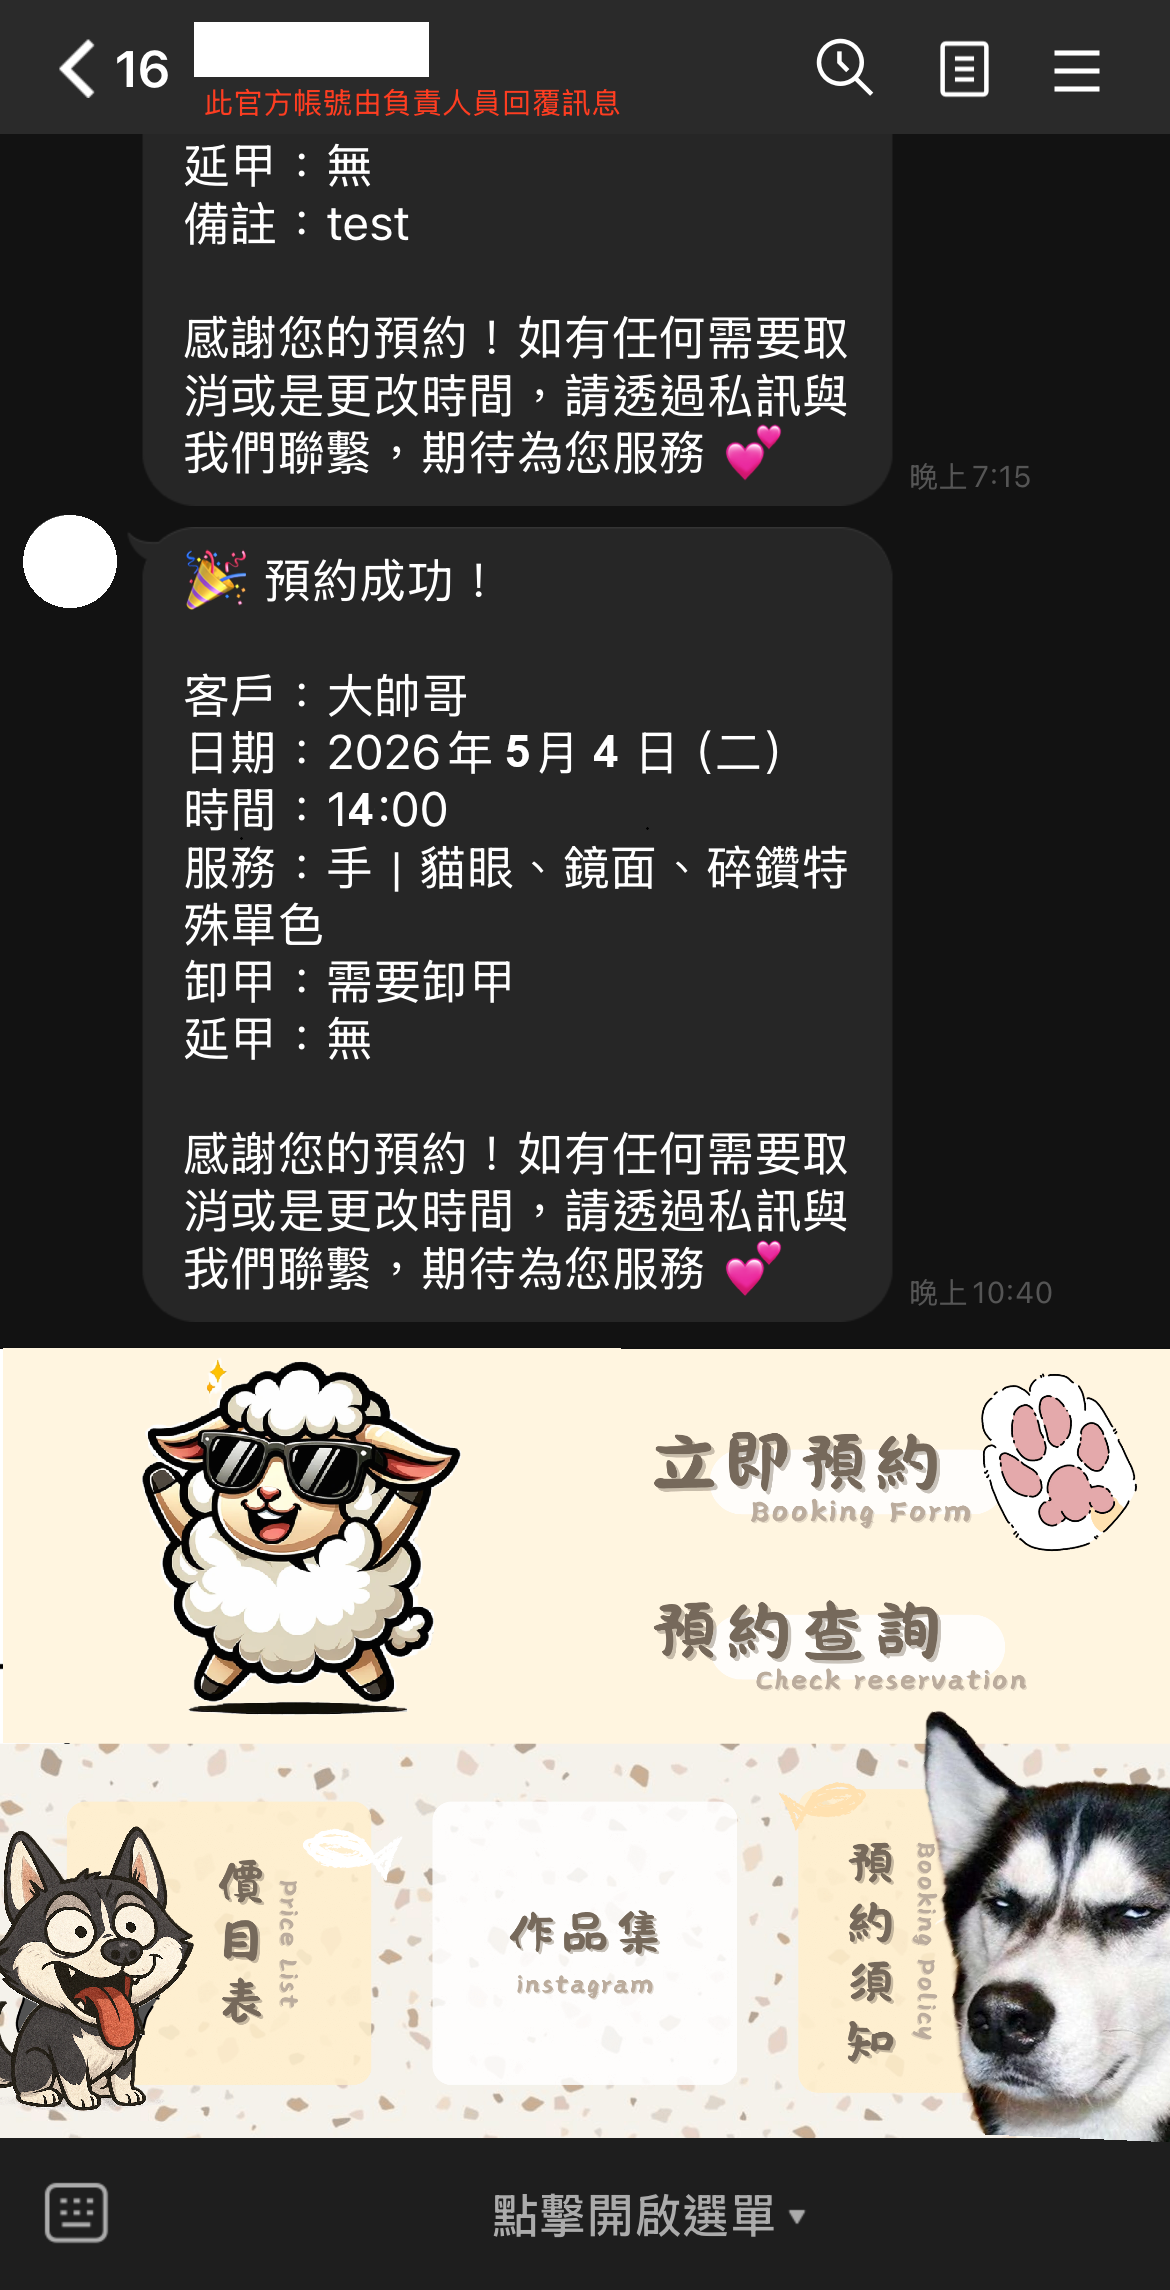
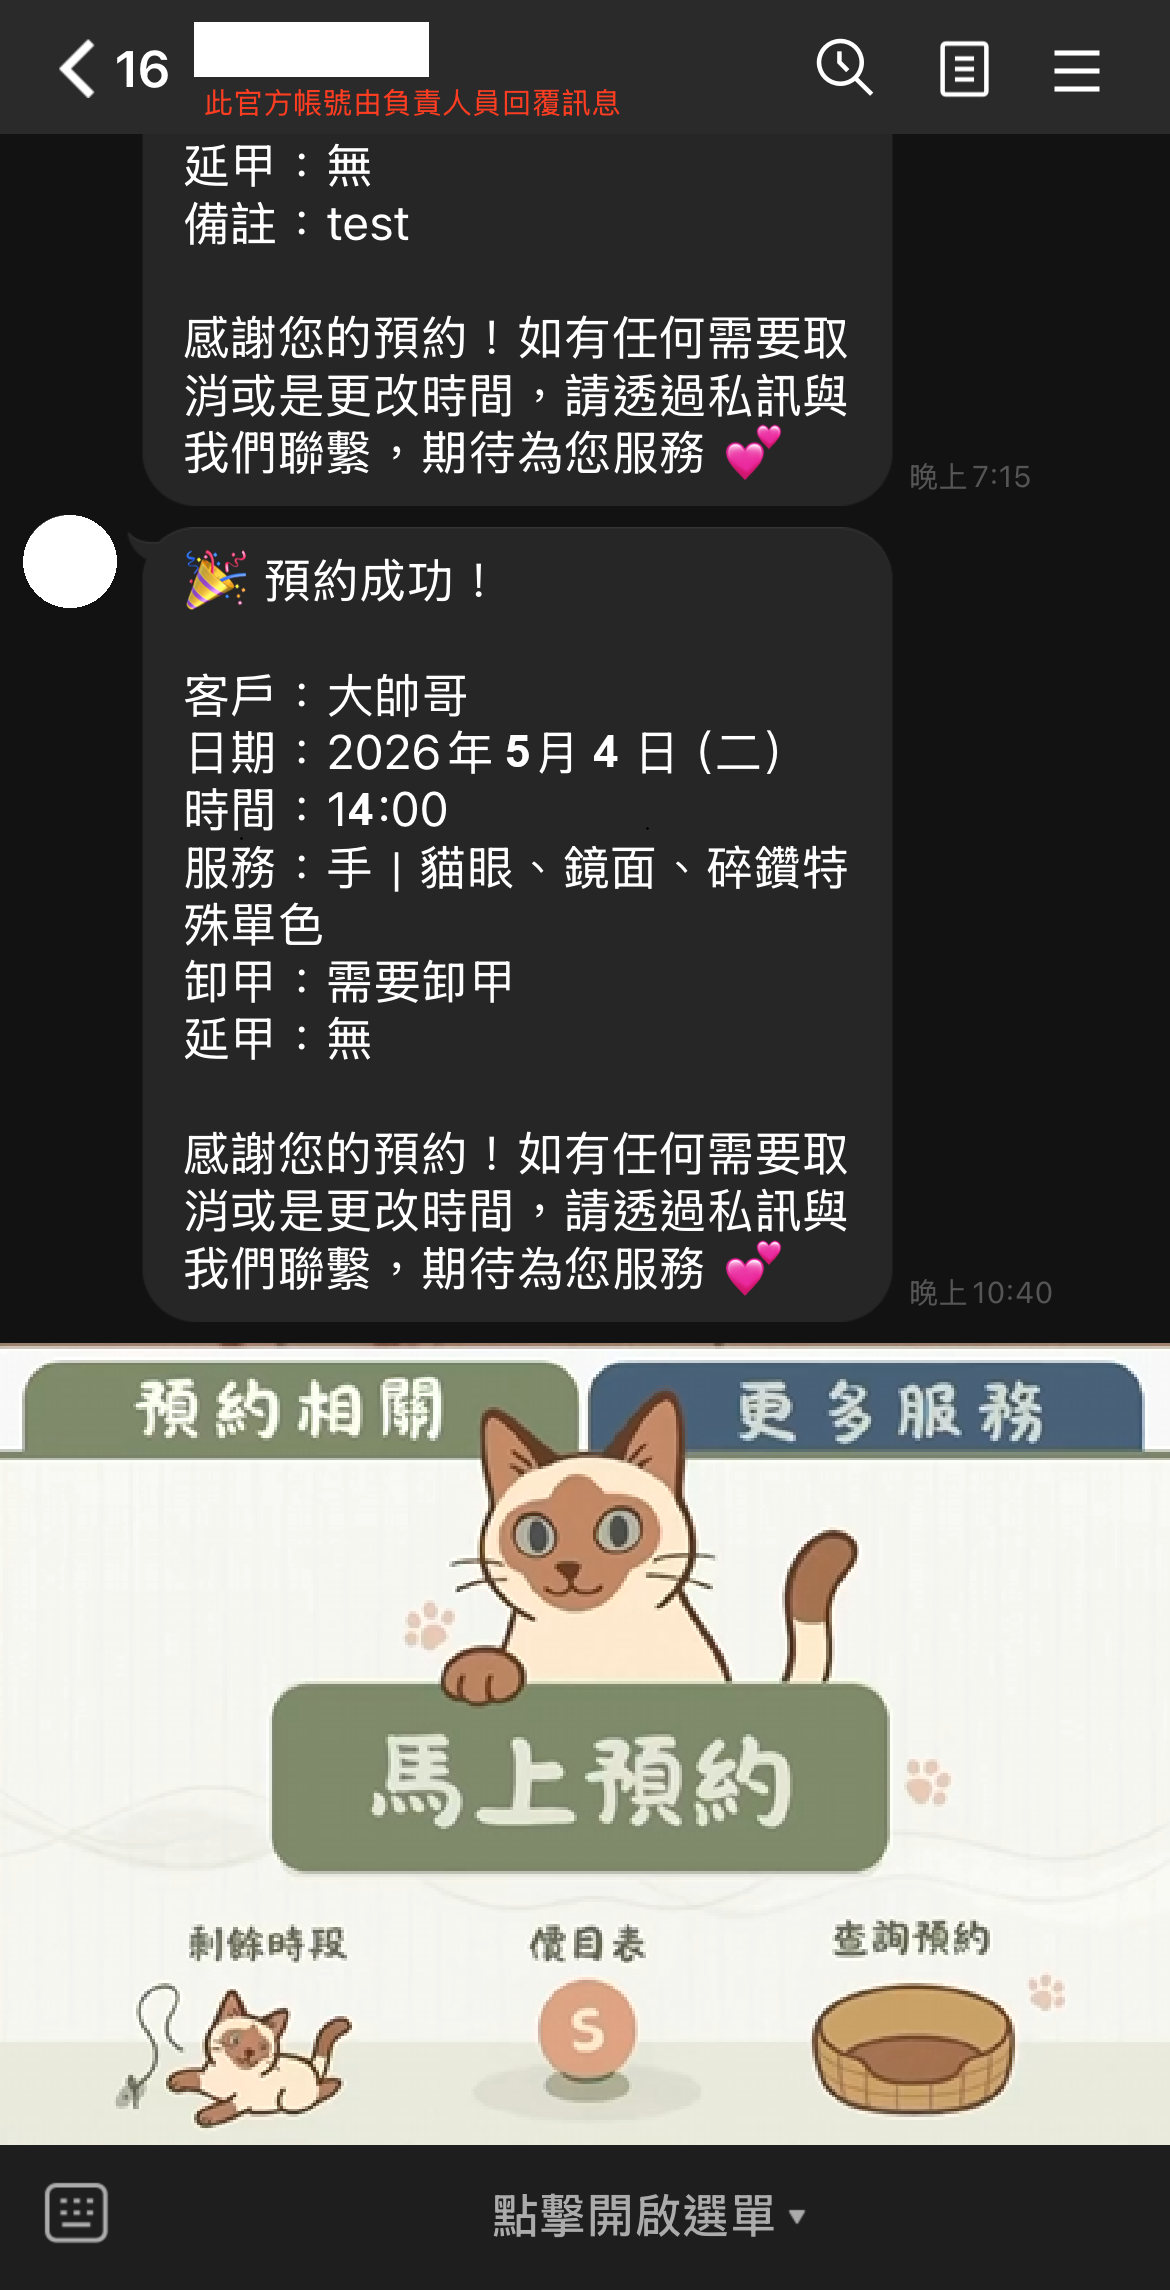
首頁文案微調並換掉美甲案例 LIFF 第一張截圖

Changed region(s): [[0.0, 0.5891, 1.0, 0.9611], [0.0308, 0.7441, 0.0615, 0.7751]]

diff --git a/src/app/page.tsx b/src/app/page.tsx
@@ -55,8 +55,8 @@ export default function Home() {
             讓世界更便利
           </h1>
           <p className="mt-6 max-w-xl text-lg text-zinc-600 md:text-xl dark:text-zinc-400">
-            我是 Alvin ，是一名獨立工程師，善於 LINE 生態系、網頁製作與 AI 應用，並且致力於打造最便利的客製化服務流程。<br />
-            從接小型店家的預約系統到自己上架語音行事曆 APP，前端、後端到部署都是由自己開發、實行。
+            我是 Alvin ，是一名獨立工程師，善於 LINE 生態系、網頁製作與 AI 應用，致力於替每位客戶客製化最適合的產品。<br />
+            從接小型店家的預約系統到自己上架語音行事曆 APP，前端、後端到部署都是由自己開發、上架。
           </p>
           <div className="mt-8 flex flex-wrap items-center gap-x-3 gap-y-2 text-sm text-zinc-500">
             <span className="inline-flex h-2 w-2 rounded-full bg-emerald-500" aria-hidden />
@@ -156,7 +156,7 @@ export default function Home() {
             主要做 LINE 生態系、AI 應用、全端網站這三塊；從需求釐清、寫 code 到部署上線。
             <br />
             <br />
-            如果你正在找一個能從零做到上線、過程中持續溝通的工程師，歡迎來信或加 LINE 聊聊。
+            如果你正在找一個能從零做到上線、過程中持續溝通的工程師，歡迎來信或私訊 LINE 官方帳號聊聊喔。
           </p>
           <ul className="space-y-5 text-zinc-700 dark:text-zinc-300">
             <li>
@@ -191,10 +191,10 @@ export default function Home() {
       <section className="mt-24 md:mt-32">
         <div className="rounded-2xl border border-zinc-200 bg-zinc-50 p-8 md:p-12 dark:border-zinc-800 dark:bg-zinc-900/50">
           <h2 className="max-w-2xl text-2xl font-semibold leading-snug tracking-tight md:text-3xl">
-            想評估你的 LINE 預約系統 / AI 應用 / 全端網站？
+            想製作你的 LINE 預約系統 / AI 應用 / 全端網站？
           </h2>
           <p className="mt-4 max-w-2xl text-zinc-600 dark:text-zinc-400">
-            加 LINE 或寄 Email 都可以。先聊聊你的需求，評估「能不能做、預估時間、大概的費用區間」後，討論完成後馬上開始你的專屬專案。
+            私訊 LINE 官方帳號或透過 Email 聊聊你的想法，評估「能不能做、預估時間、費用」，討論完成後馬上開始你的專屬專案。
           </p>
           <div className="mt-8 flex flex-col items-start gap-3">
             <a
